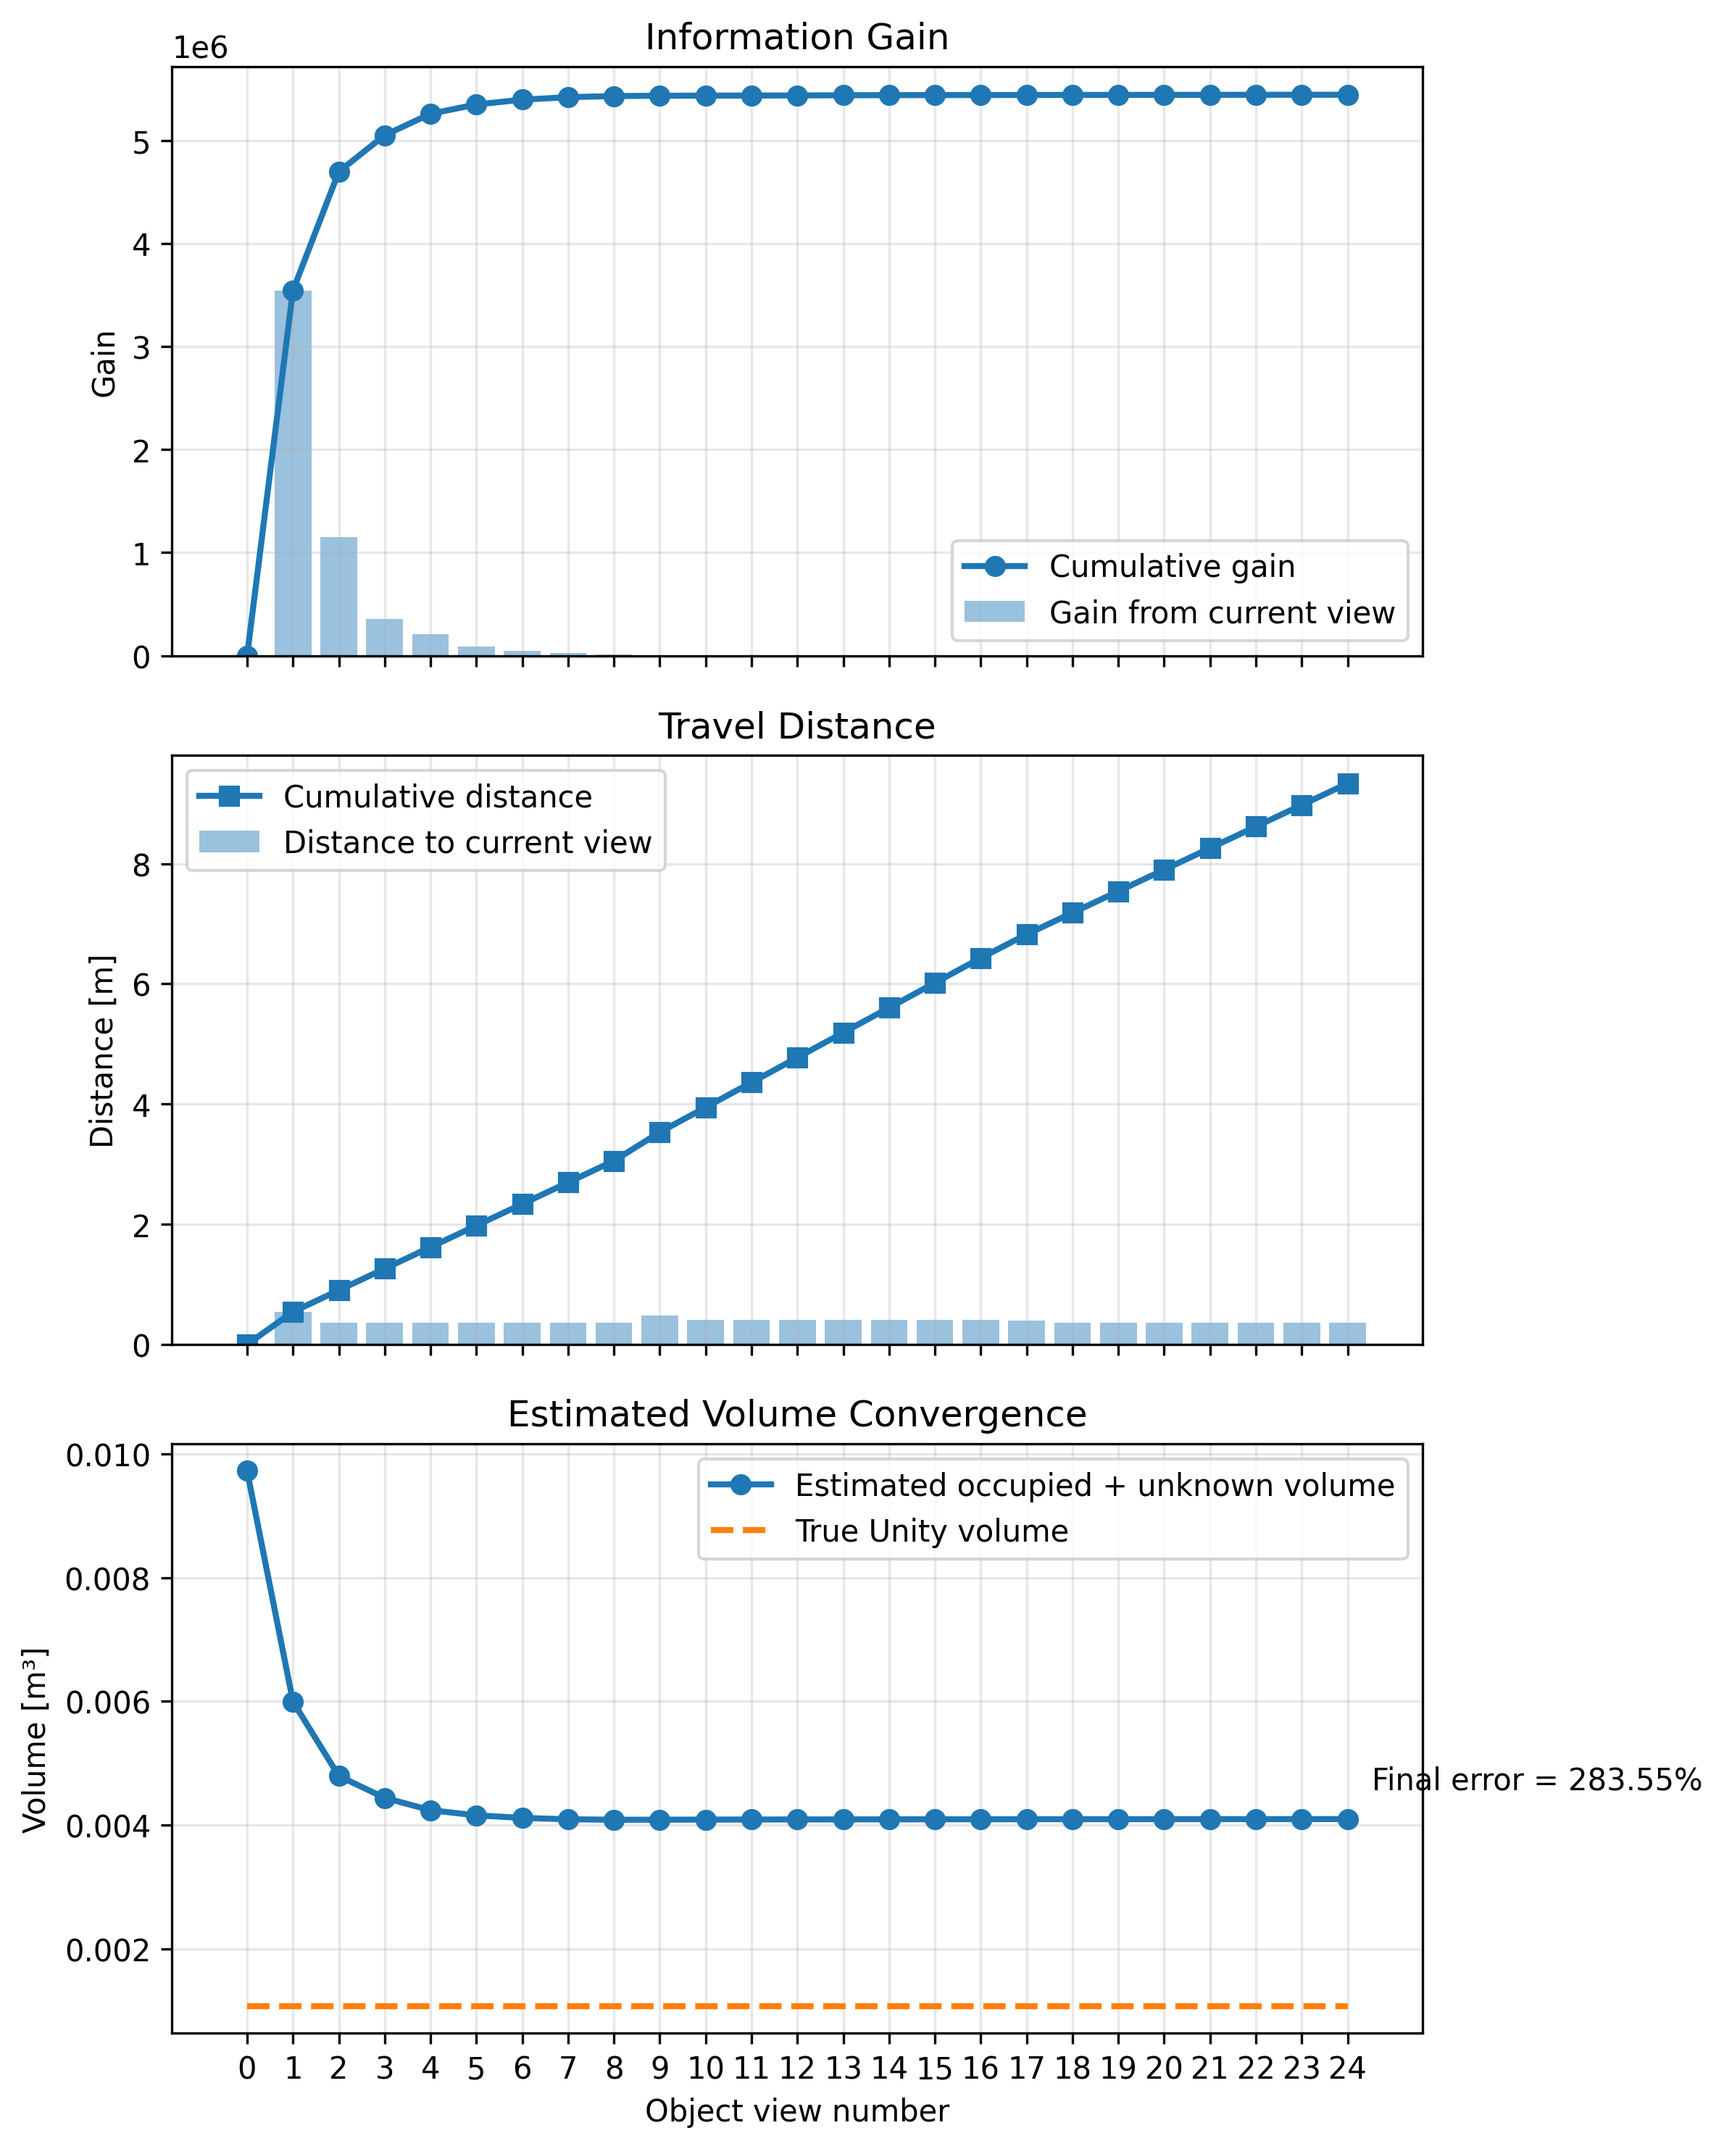
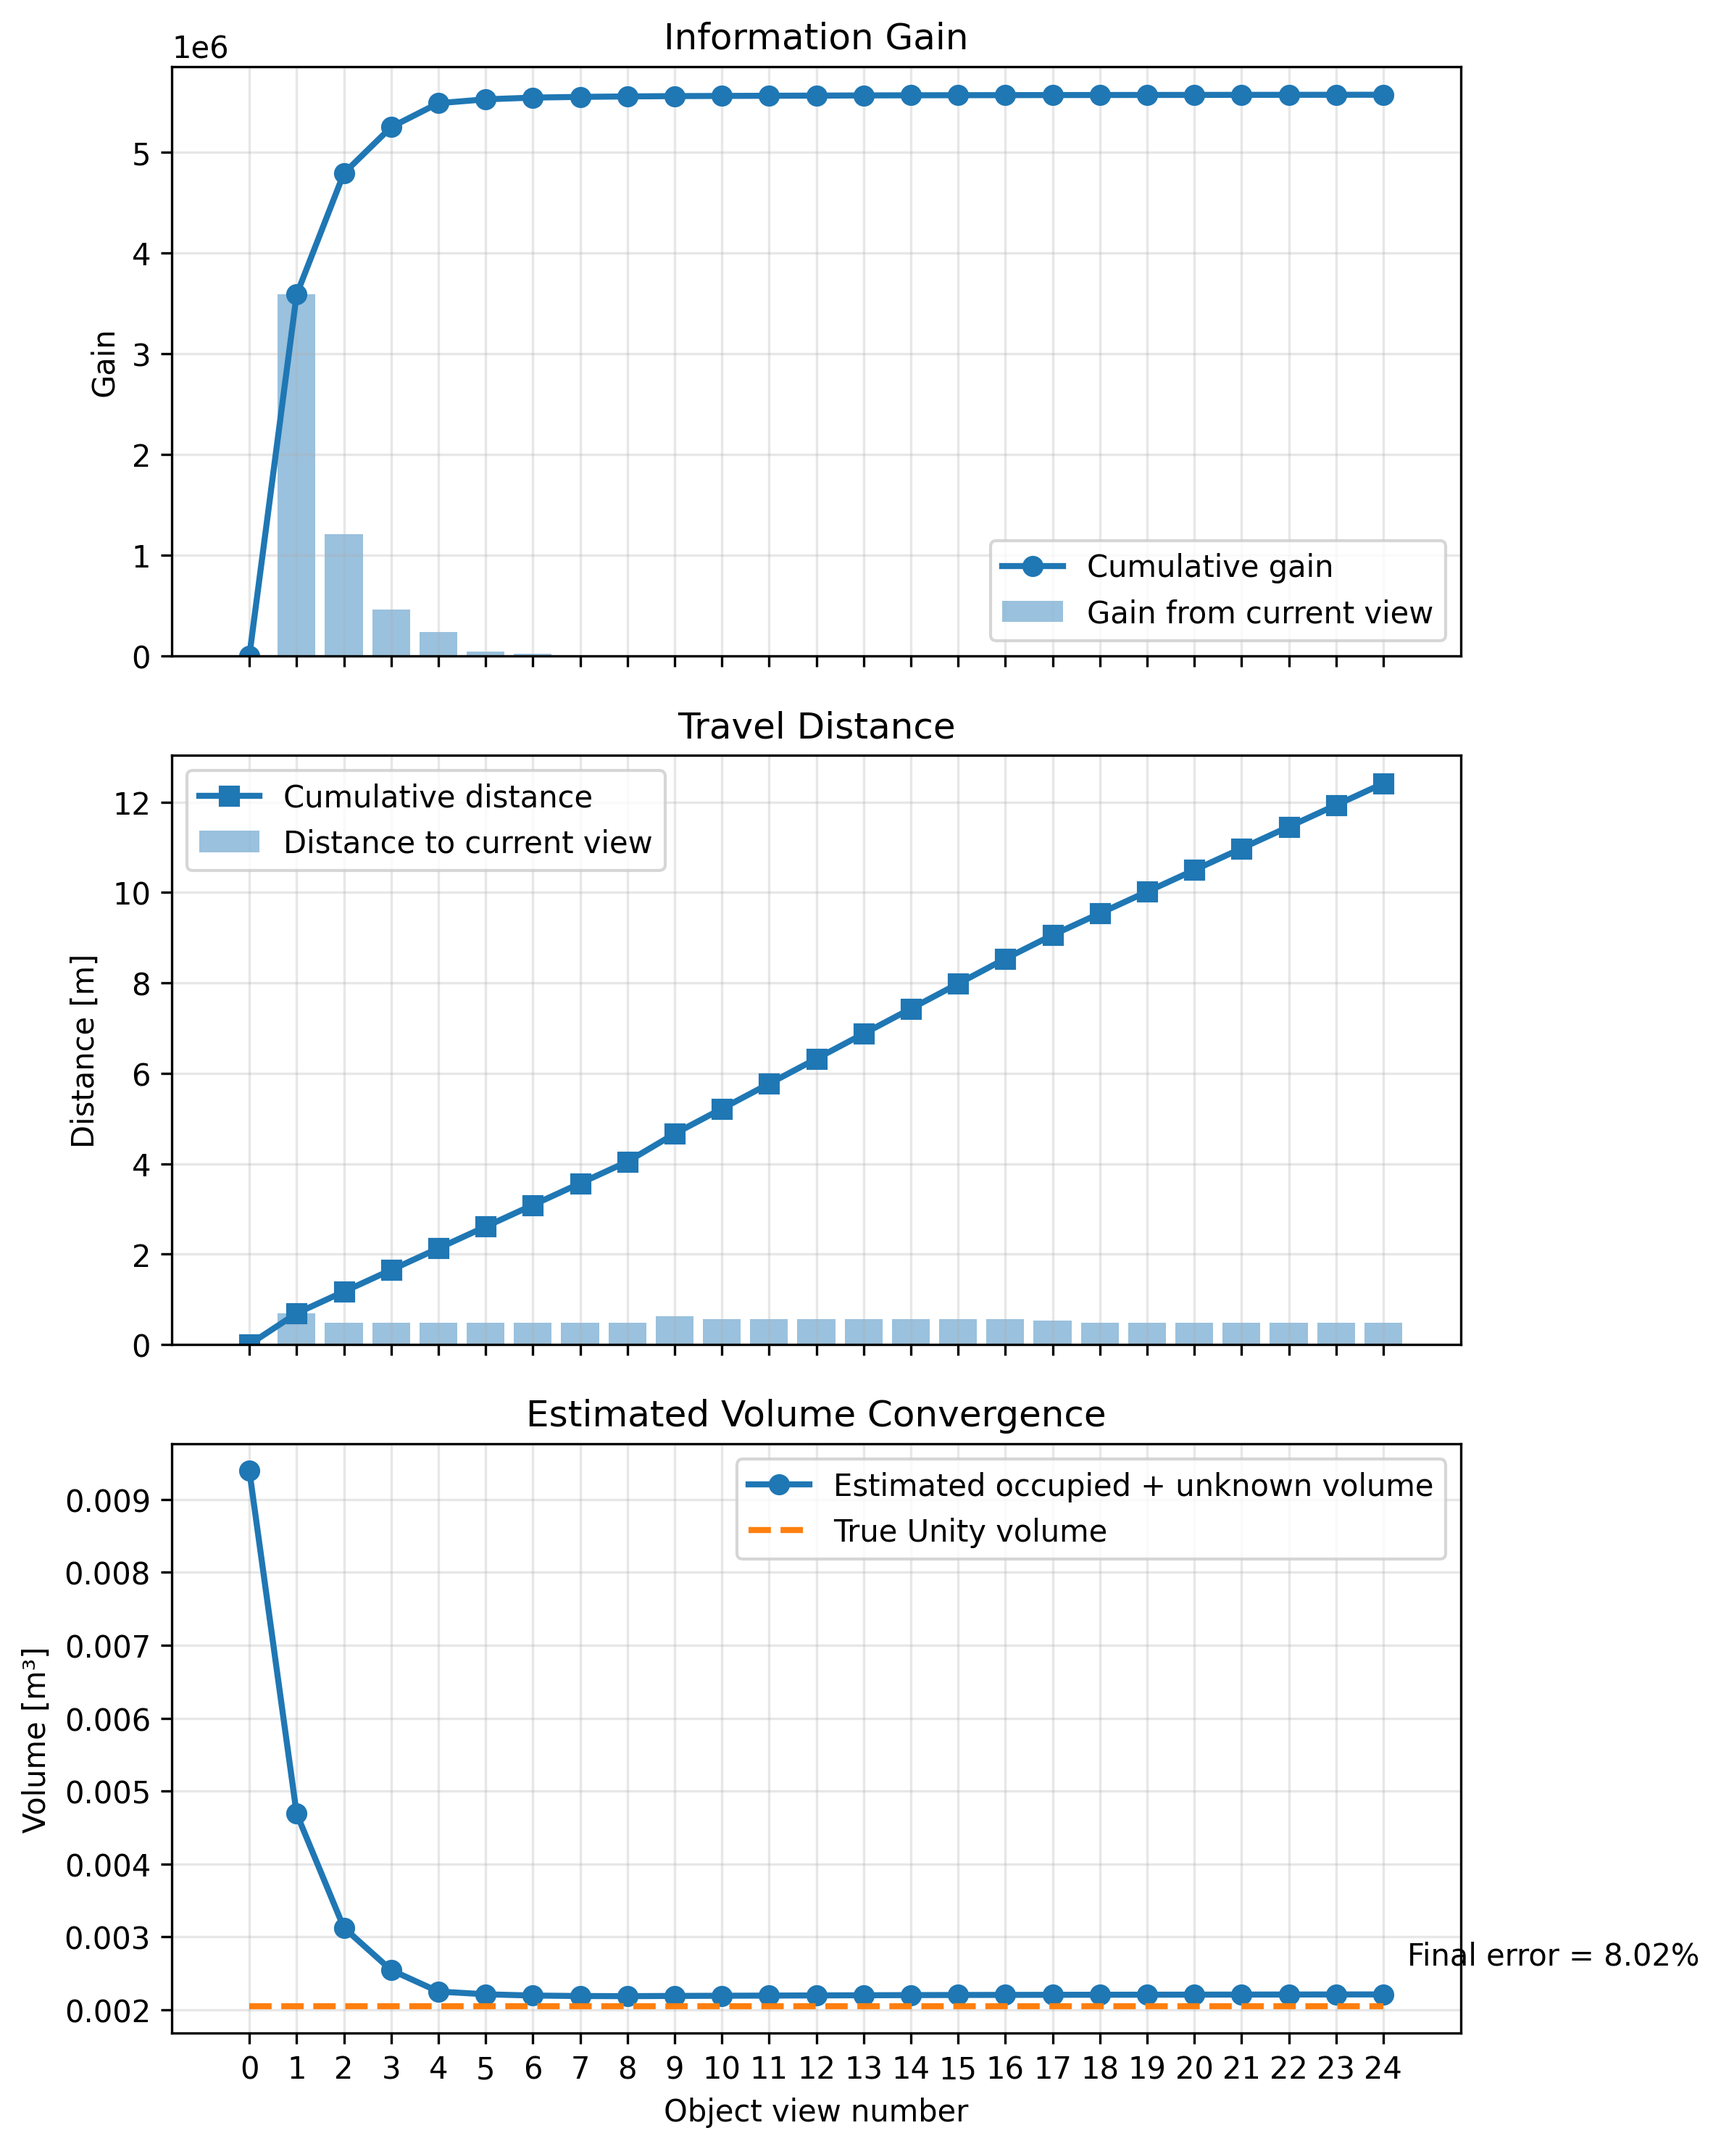
u

diff --git a/voxel_resolution.py b/voxel_resolution.py
@@ -19,7 +19,7 @@ NBV_HOST = "127.0.0.1"
 NBV_PORT = 9020
 
 # input
-VOXEL_SIZE = 0.005
+VOXEL_SIZE = 0.003
 BBOX_MARGIN = 0.05
 FLOOR_HEIGHT = 0.0
 HEIGHT_THRESHOLD = 1e-3
@@ -30,10 +30,10 @@ MAX_ELEV_DEG = 40
 # fixed view and init parameters
 NBV_MIN_HEIGHT = 1e-1
 SIZE_MARGIN = 2.0 # Multiplier to ensure the entire object fits within the camera FOV
-MIN_ALT_BUFFER = 2
+MIN_ALT_BUFFER = 4
 
 # Object Type
-OBJECT_TYPE = "mug"
+OBJECT_TYPE = "sports ball"
 
 # plotting option
 PLOT_VOXEL_CENTERS = False
